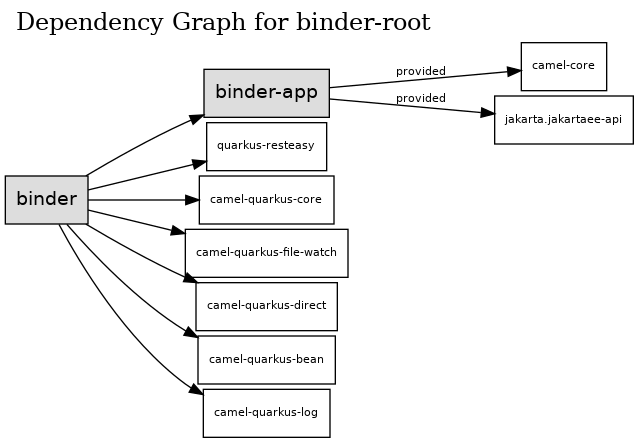
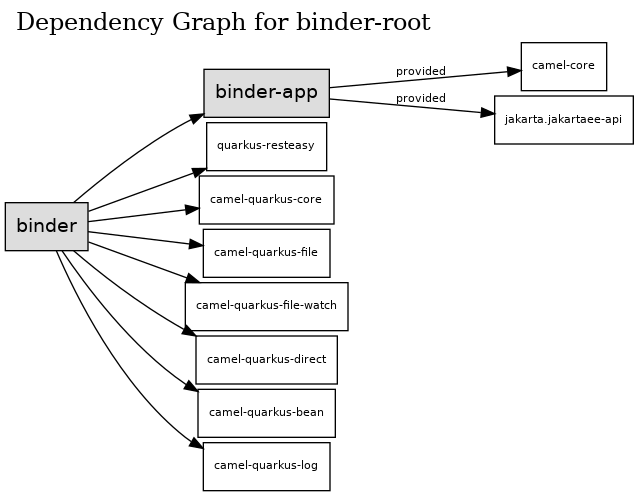
Scan contents of BINDER_DIRECTORY on startup

diff --git a/binder-app/src/main/java/net/kemitix/binder/app/ScannerRoutes.java b/binder-app/src/main/java/net/kemitix/binder/app/ScannerRoutes.java
@@ -13,8 +13,13 @@ public class ScannerRoutes
 
     @Override
     public void configure() {
+        fromF("file://%s?noop=true", binderConfig.getScanDirectory())
+                .routeId("Load Manuscript")
+                .log("File found: ${header.CamelFileName}")
+        ;
+
         fromF("file-watch://%s", binderConfig.getScanDirectory())
-                .routeId("Scan Directory")
+                .routeId("Monitor Manuscript")
                 .log("File event: ${header.CamelFileEventType}" +
                         " occurred on file ${header.CamelFileName}" +
                         " at ${header.CamelFileLastModified}");
